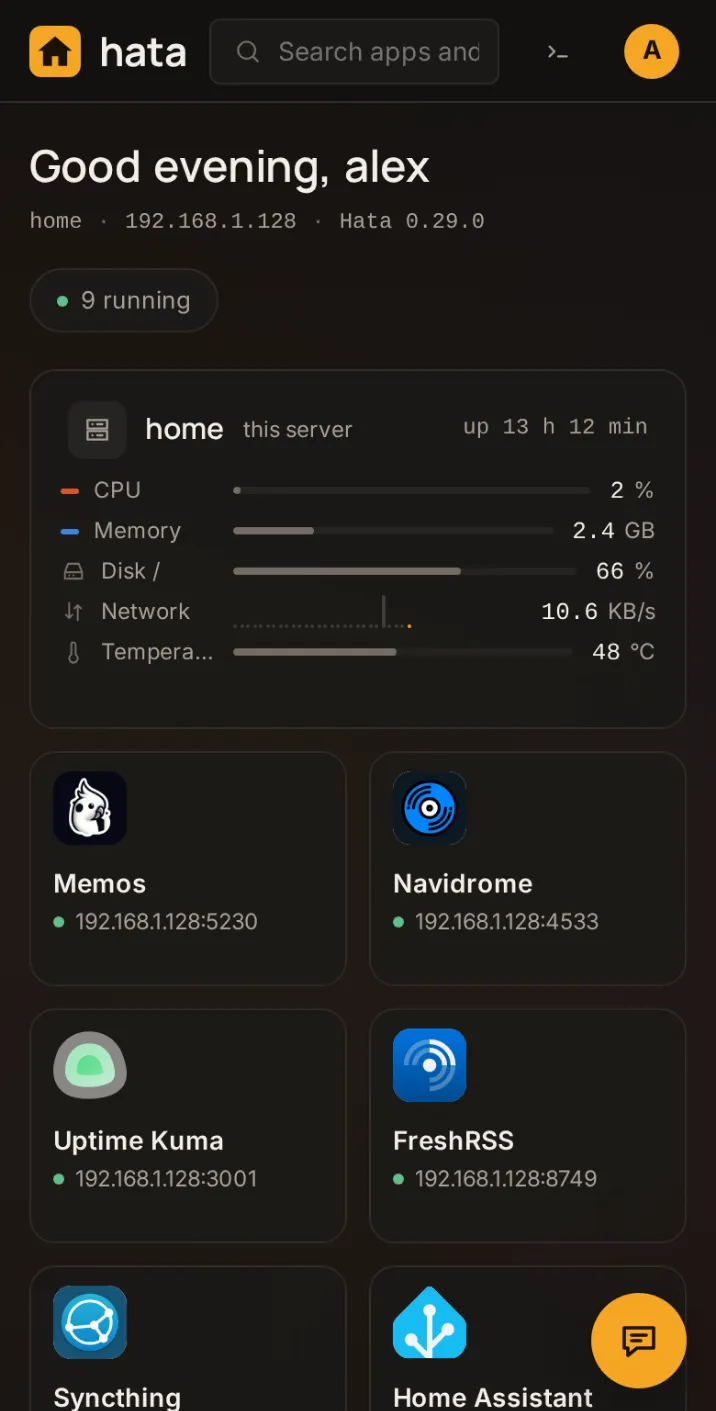
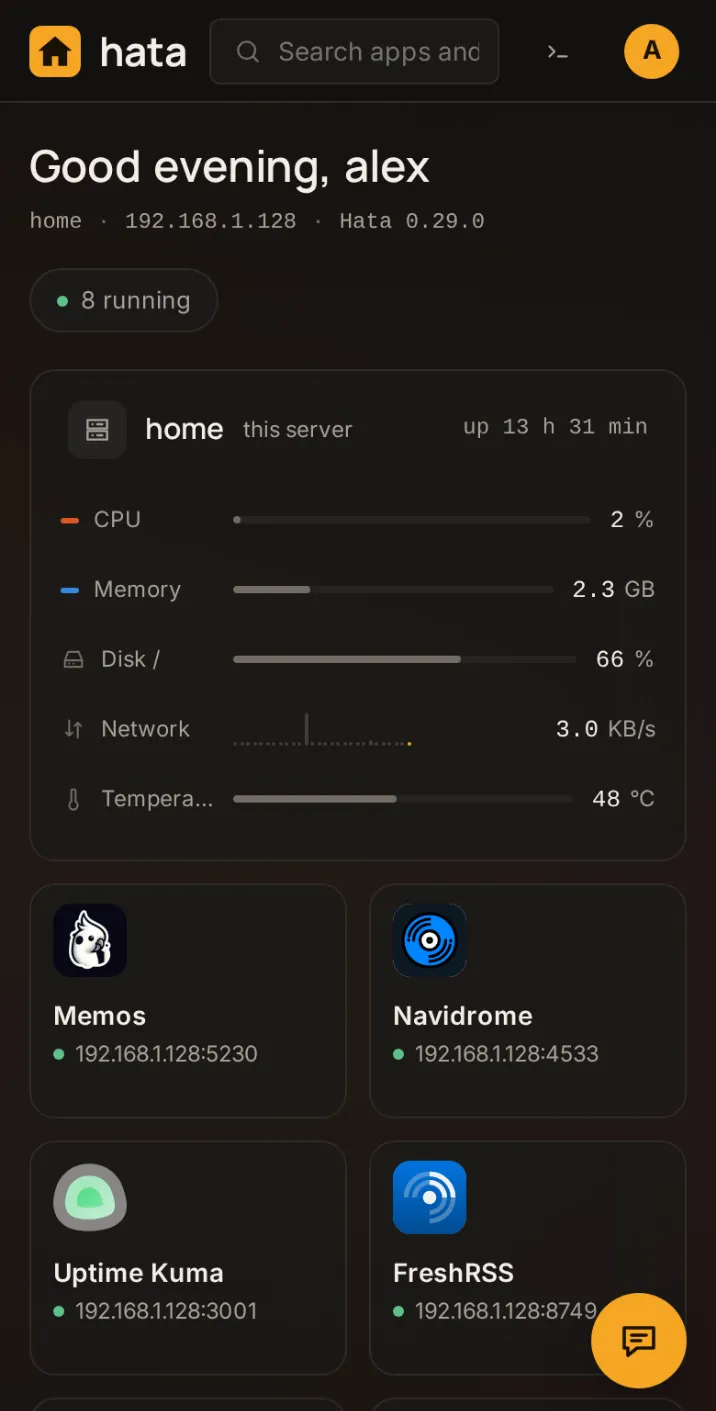
Names in the server tree and the numbers on Home fit a phone
A name in the tree no longer breaks letter by letter: what stands next to it
goes under it. The numbers on Home share the height of their card instead of
leaving it half empty. The assistant's pictures show only the example chat, and
a stray file is gone from the repository.

diff --git a/src/ui/app.css b/src/ui/app.css
@@ -1491,6 +1491,8 @@ i.dot.danger { background: var(--danger); }
   .tree-row > .tree-name { grid-column: 1; }
   .tree-row > .tree-what, .tree-row > .tree-state, .tree-row > .tree-busy { grid-column: 1; }
   .tree-row > .tree-actions { grid-column: 2; grid-row: 1 / span 4; }
+  /* a name keeps its line: what stands next to it goes under it, not the name's letters one by one */
+  .tree-name { flex-wrap: wrap; }
   .tree-row.child .tree-name { padding-left: 0; }
   .tree-row.child { padding-left: 24px; }
   .tree-busy:empty { display: none; }
@@ -1588,6 +1590,8 @@ img.broken { visibility: hidden; }
   .pg-card .numbers .kpi-value strong { font-size: 13px; letter-spacing: 0; }
   .pg-card .numbers .kpi-hint { display: none; }
 }
+/* a phone gives the numbers two rows of the grid: they share that height, nothing stays empty under them */
+@container pg-card (max-width: 480px) and (max-height: 300px) { .pg-card .numbers .kpis { flex: 1; align-content: space-evenly; } }
 @container pg-card (min-width: 481px) and (max-height: 170px) { .pg-card .numbers .kpi-hint { display: none; } .pg-card .numbers .kpi-value strong { font-size: 20px; } }
 @container pg-card (min-width: 600px) and (min-height: 260px) and (max-height: 300px) {
   .pg-card .numbers { display: grid !important; grid-template-columns: 1fr 1fr; grid-template-rows: auto 1fr; }
